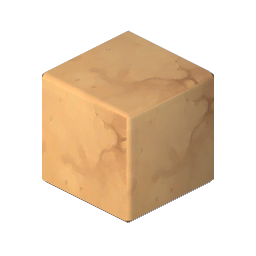
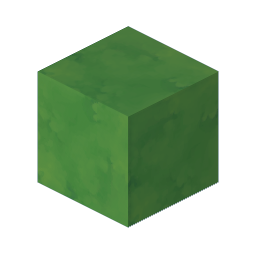
grass & better starter blocks

diff --git a/Assets/Code/Block/BlockPlacementManager.ts b/Assets/Code/Block/BlockPlacementManager.ts
@@ -29,7 +29,7 @@ export const MAX_BLOCKS_PER_SECOND = 14;
 
 export default class BlockPlacementManager extends AirshipSingleton {
 	public maxVoidBridgeLen = 6;
-	public redirectId: number;
+
 	/** lastCommandId is used to map the block placement to this client's timeline */
 	public blockAddedNS = new NetworkSignal<
 		[
@@ -62,12 +62,6 @@ export default class BlockPlacementManager extends AirshipSingleton {
 	override Start(): void {
 		if (Game.IsClient()) this.StartClient();
 		if (Game.IsServer()) this.StartServer();
-
-		task.spawn(() => {
-			WorldManager.Get().WaitForWorldLoaded();
-			this.redirectId =
-				WorldManager.Get().currentWorld.voxelBlocks.GetBlockIdFromStringId("@Easy/VoxelWorld:Redirect");
-		});
 
 		// const blockBuildBreakCrosshairSetting = "Block Build/Break Crosshair Enabled";
 		// Airship.Settings.AddToggle(blockBuildBreakCrosshairSetting, true);
@@ -311,7 +305,11 @@ export default class BlockPlacementManager extends AirshipSingleton {
 	}
 
 	public ClientPredictBlockPlace(voxelPos: Vector3, blockId: number): (() => void) | undefined {
-		WorldManager.Get().currentWorld.WriteVoxelAt(voxelPos, blockId, true);
+		const world = WorldManager.Get().currentLoadedWorld;
+		world.voxelWorld.WriteVoxelAt(voxelPos, blockId, true);
+		if (blockId === WorldManager.Get().grassBlockId) {
+			world.voxelWorld.WriteVoxelColorAt(voxelPos, new Color(0, 1, 1, 1), true);
+		}
 		// Predict block data of breakable. This could be made a more precise prediciton if needed (for example predicting redirect)
 		BlockDataManager.Get().RegisterBlockData(voxelPos, GetBlockData({ breakable: true })!);
 
@@ -388,6 +386,10 @@ export default class BlockPlacementManager extends AirshipSingleton {
 		}
 
 		world.voxelWorld.WriteVoxelAt(worldPos.sub(world.offset), voxelData, priority);
+		const blockId = VoxelWorld.GetVoxelDataId(voxelData);
+		if (blockId === WorldManager.Get().grassBlockId) {
+			world.voxelWorld.WriteVoxelColorAt(worldPos.sub(world.offset), new Color(0, 0, 0, 0), false);
+		}
 
 		const blockItem = ItemManager.Get().GetItemTypeFromVoxelId(BlockUtil.VoxelDataToBlockId(voxelData));
 		if (blockItem) {
@@ -395,7 +397,7 @@ export default class BlockPlacementManager extends AirshipSingleton {
 			for (const v of containedVoxels) {
 				if (v.sub(worldPos).magnitude < 0.001) continue; // Don't create a redirect block at root
 
-				world.voxelWorld.WriteVoxelAt(v.sub(world.offset), this.redirectId, priority);
+				world.voxelWorld.WriteVoxelAt(v.sub(world.offset), WorldManager.Get().redirectId, priority);
 				const blockData = GetBlockData({ breakable: true, redirect: worldPos });
 				if (blockData) {
 					BlockDataManager.Get().RegisterBlockData(v, blockData);

diff --git a/Assets/Code/World/WorldManager.ts b/Assets/Code/World/WorldManager.ts
@@ -17,6 +17,9 @@ export default class WorldManager extends AirshipSingleton {
 	public starterSaveFile: WorldSaveFile;
 	public voxelBlocks: VoxelBlocks;
 
+	@NonSerialized() public redirectId: number;
+	@NonSerialized() public grassBlockId = -1;
+
 	public uidToCurrentLoadedWorldMap = new Map<string, LoadedWorld>();
 
 	private addLoadedWorldNetSig = new NetworkSignal<
@@ -43,6 +46,10 @@ export default class WorldManager extends AirshipSingleton {
 		// if (Game.IsServer()) {
 		// 	this.currentWorld.LoadWorldFromSaveFile(this.currentWorld.voxelWorldFile);
 		// }
+		this.voxelBlocks.Reload(false);
+		this.redirectId = this.voxelBlocks.GetBlockIdFromStringId("@Easy/VoxelWorld:Redirect");
+		this.grassBlockId = this.voxelBlocks.GetBlockIdFromStringId("@Easy/VoxelWorld:Grass");
+
 		if (Game.IsClient()) this.StartClient();
 		if (Game.IsServer()) this.StartServer();
 	}
@@ -228,8 +235,8 @@ export default class WorldManager extends AirshipSingleton {
 			});
 			const inv = character.inventory;
 			inv.AddItem(new ItemStack(ItemType.EmeraldPickaxe));
-			inv.AddItem(new ItemStack(ItemType.Dirt));
-			inv.AddItem(new ItemStack(ItemType.Stone));
+			inv.AddItem(new ItemStack(ItemType.Grass));
+			inv.AddItem(new ItemStack(ItemType.Slate));
 			inv.AddItem(new ItemStack(ItemType.Obsidian));
 		}
 
